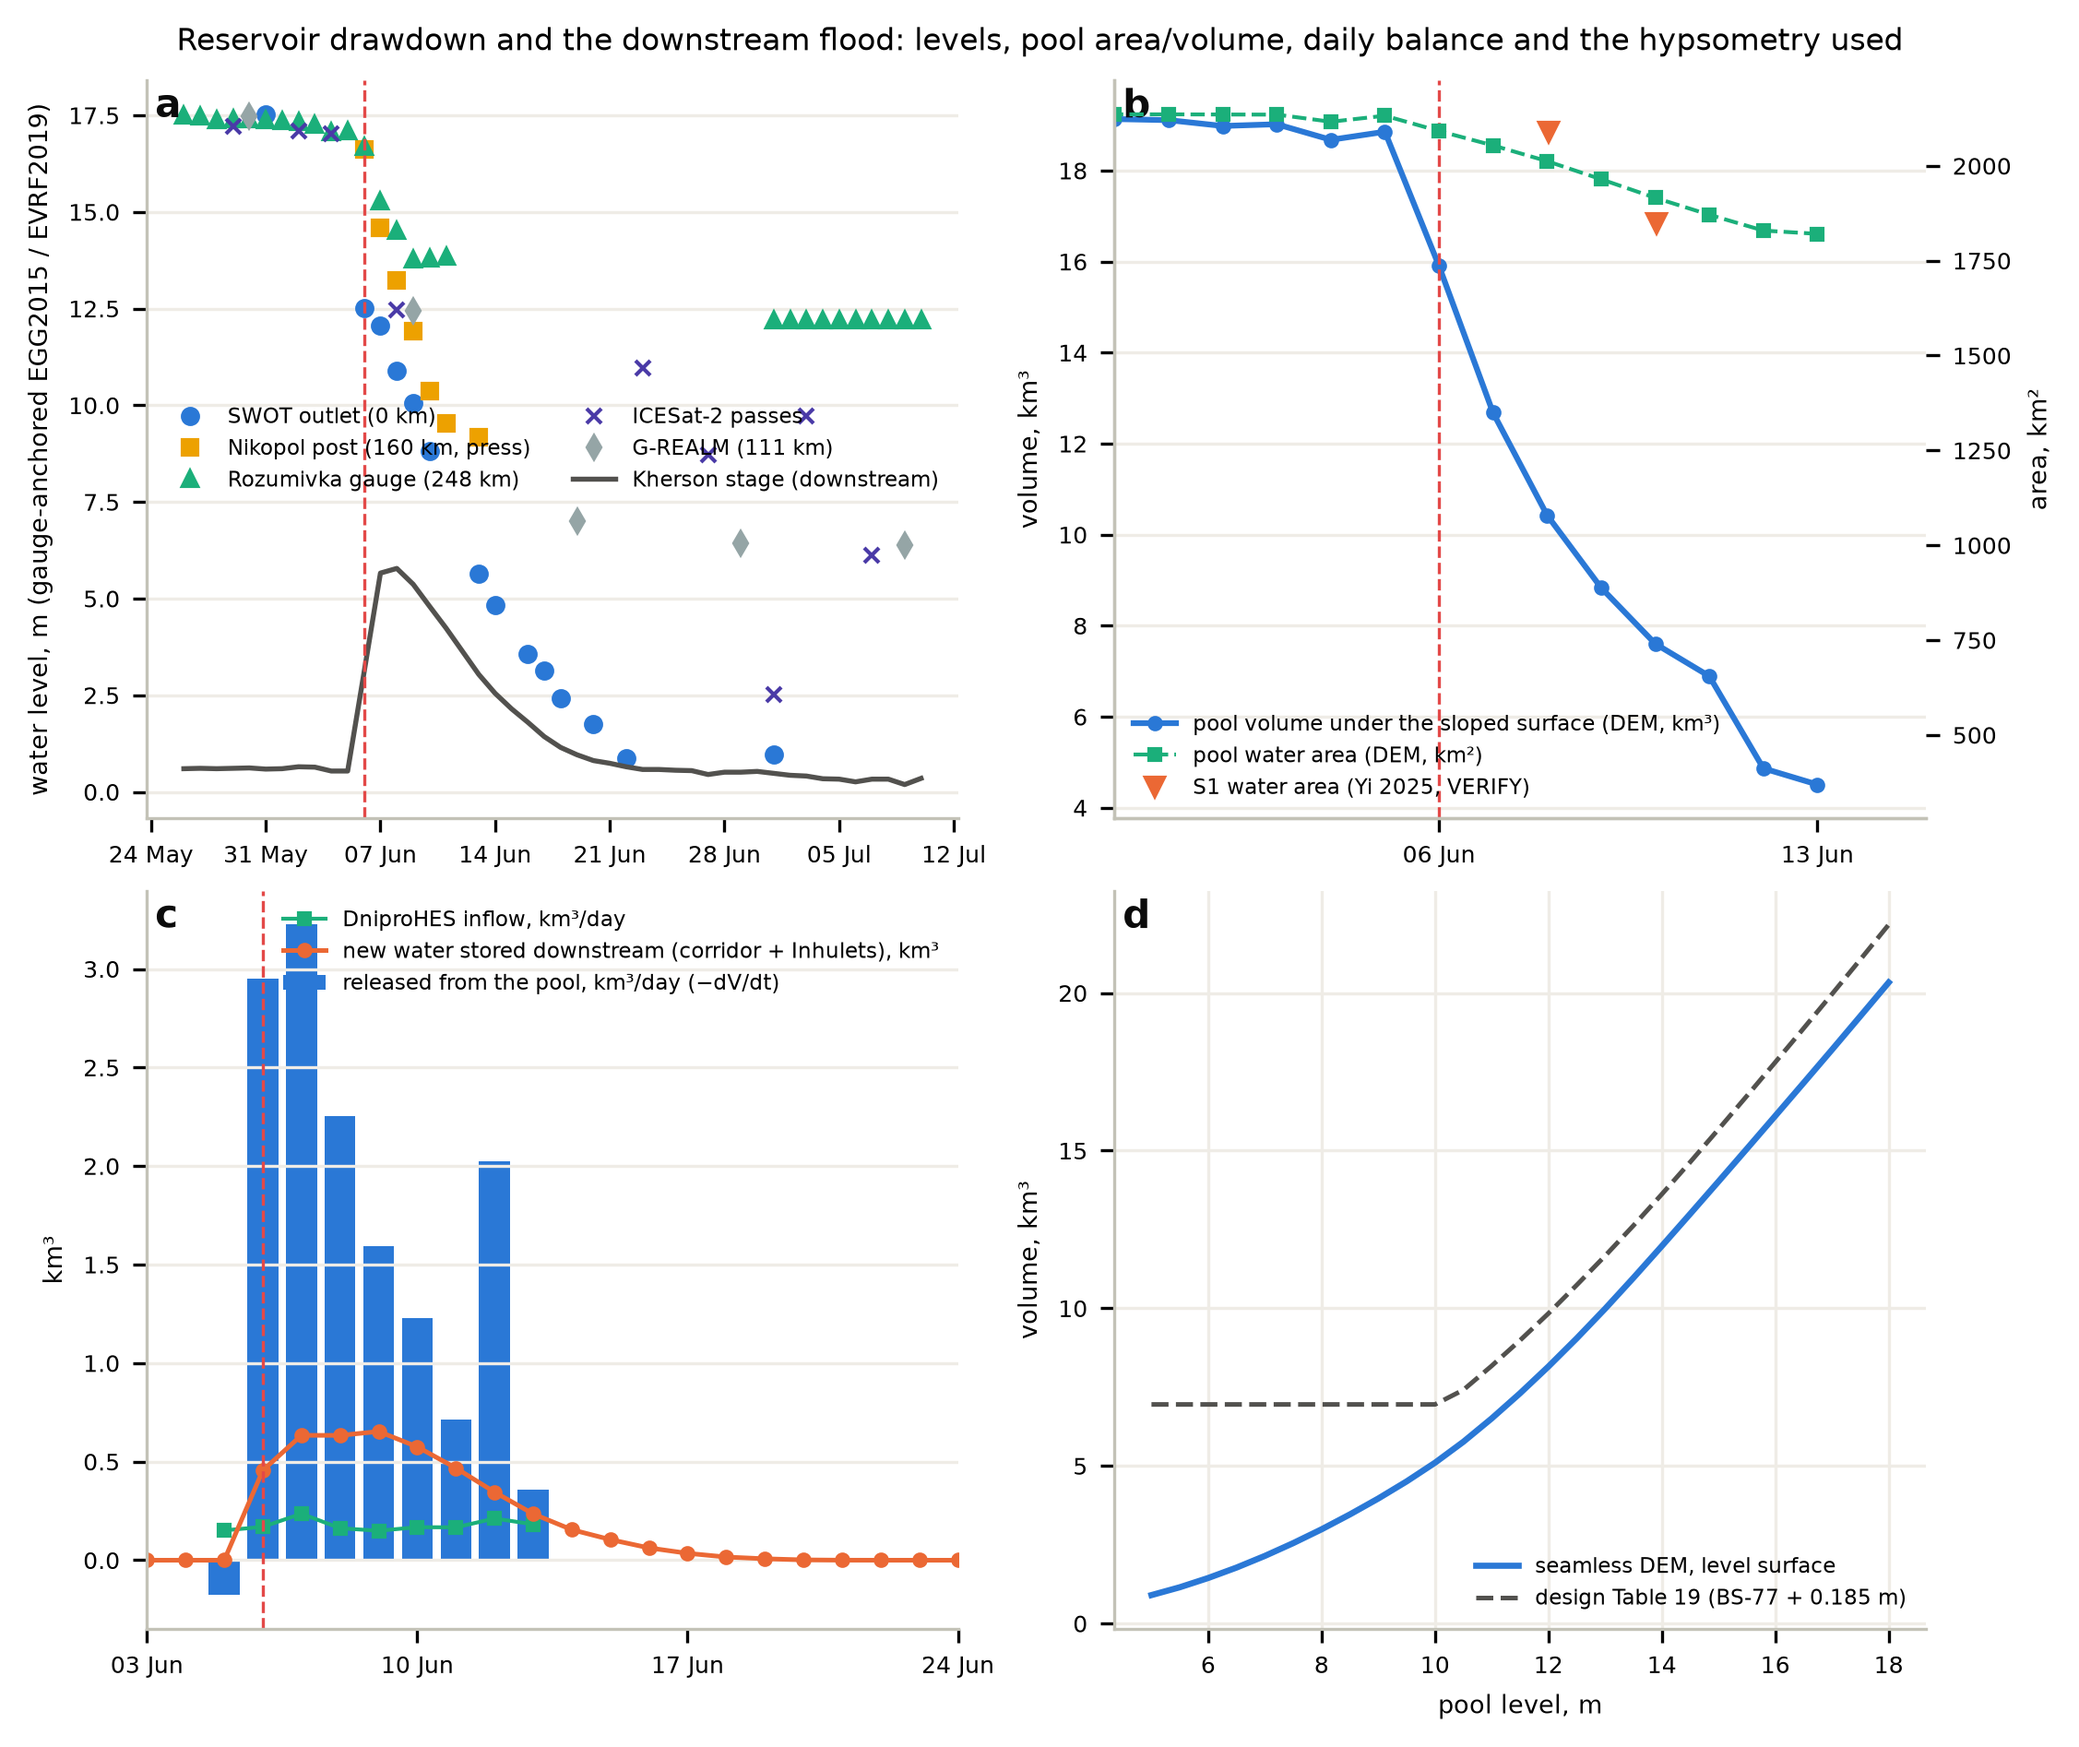
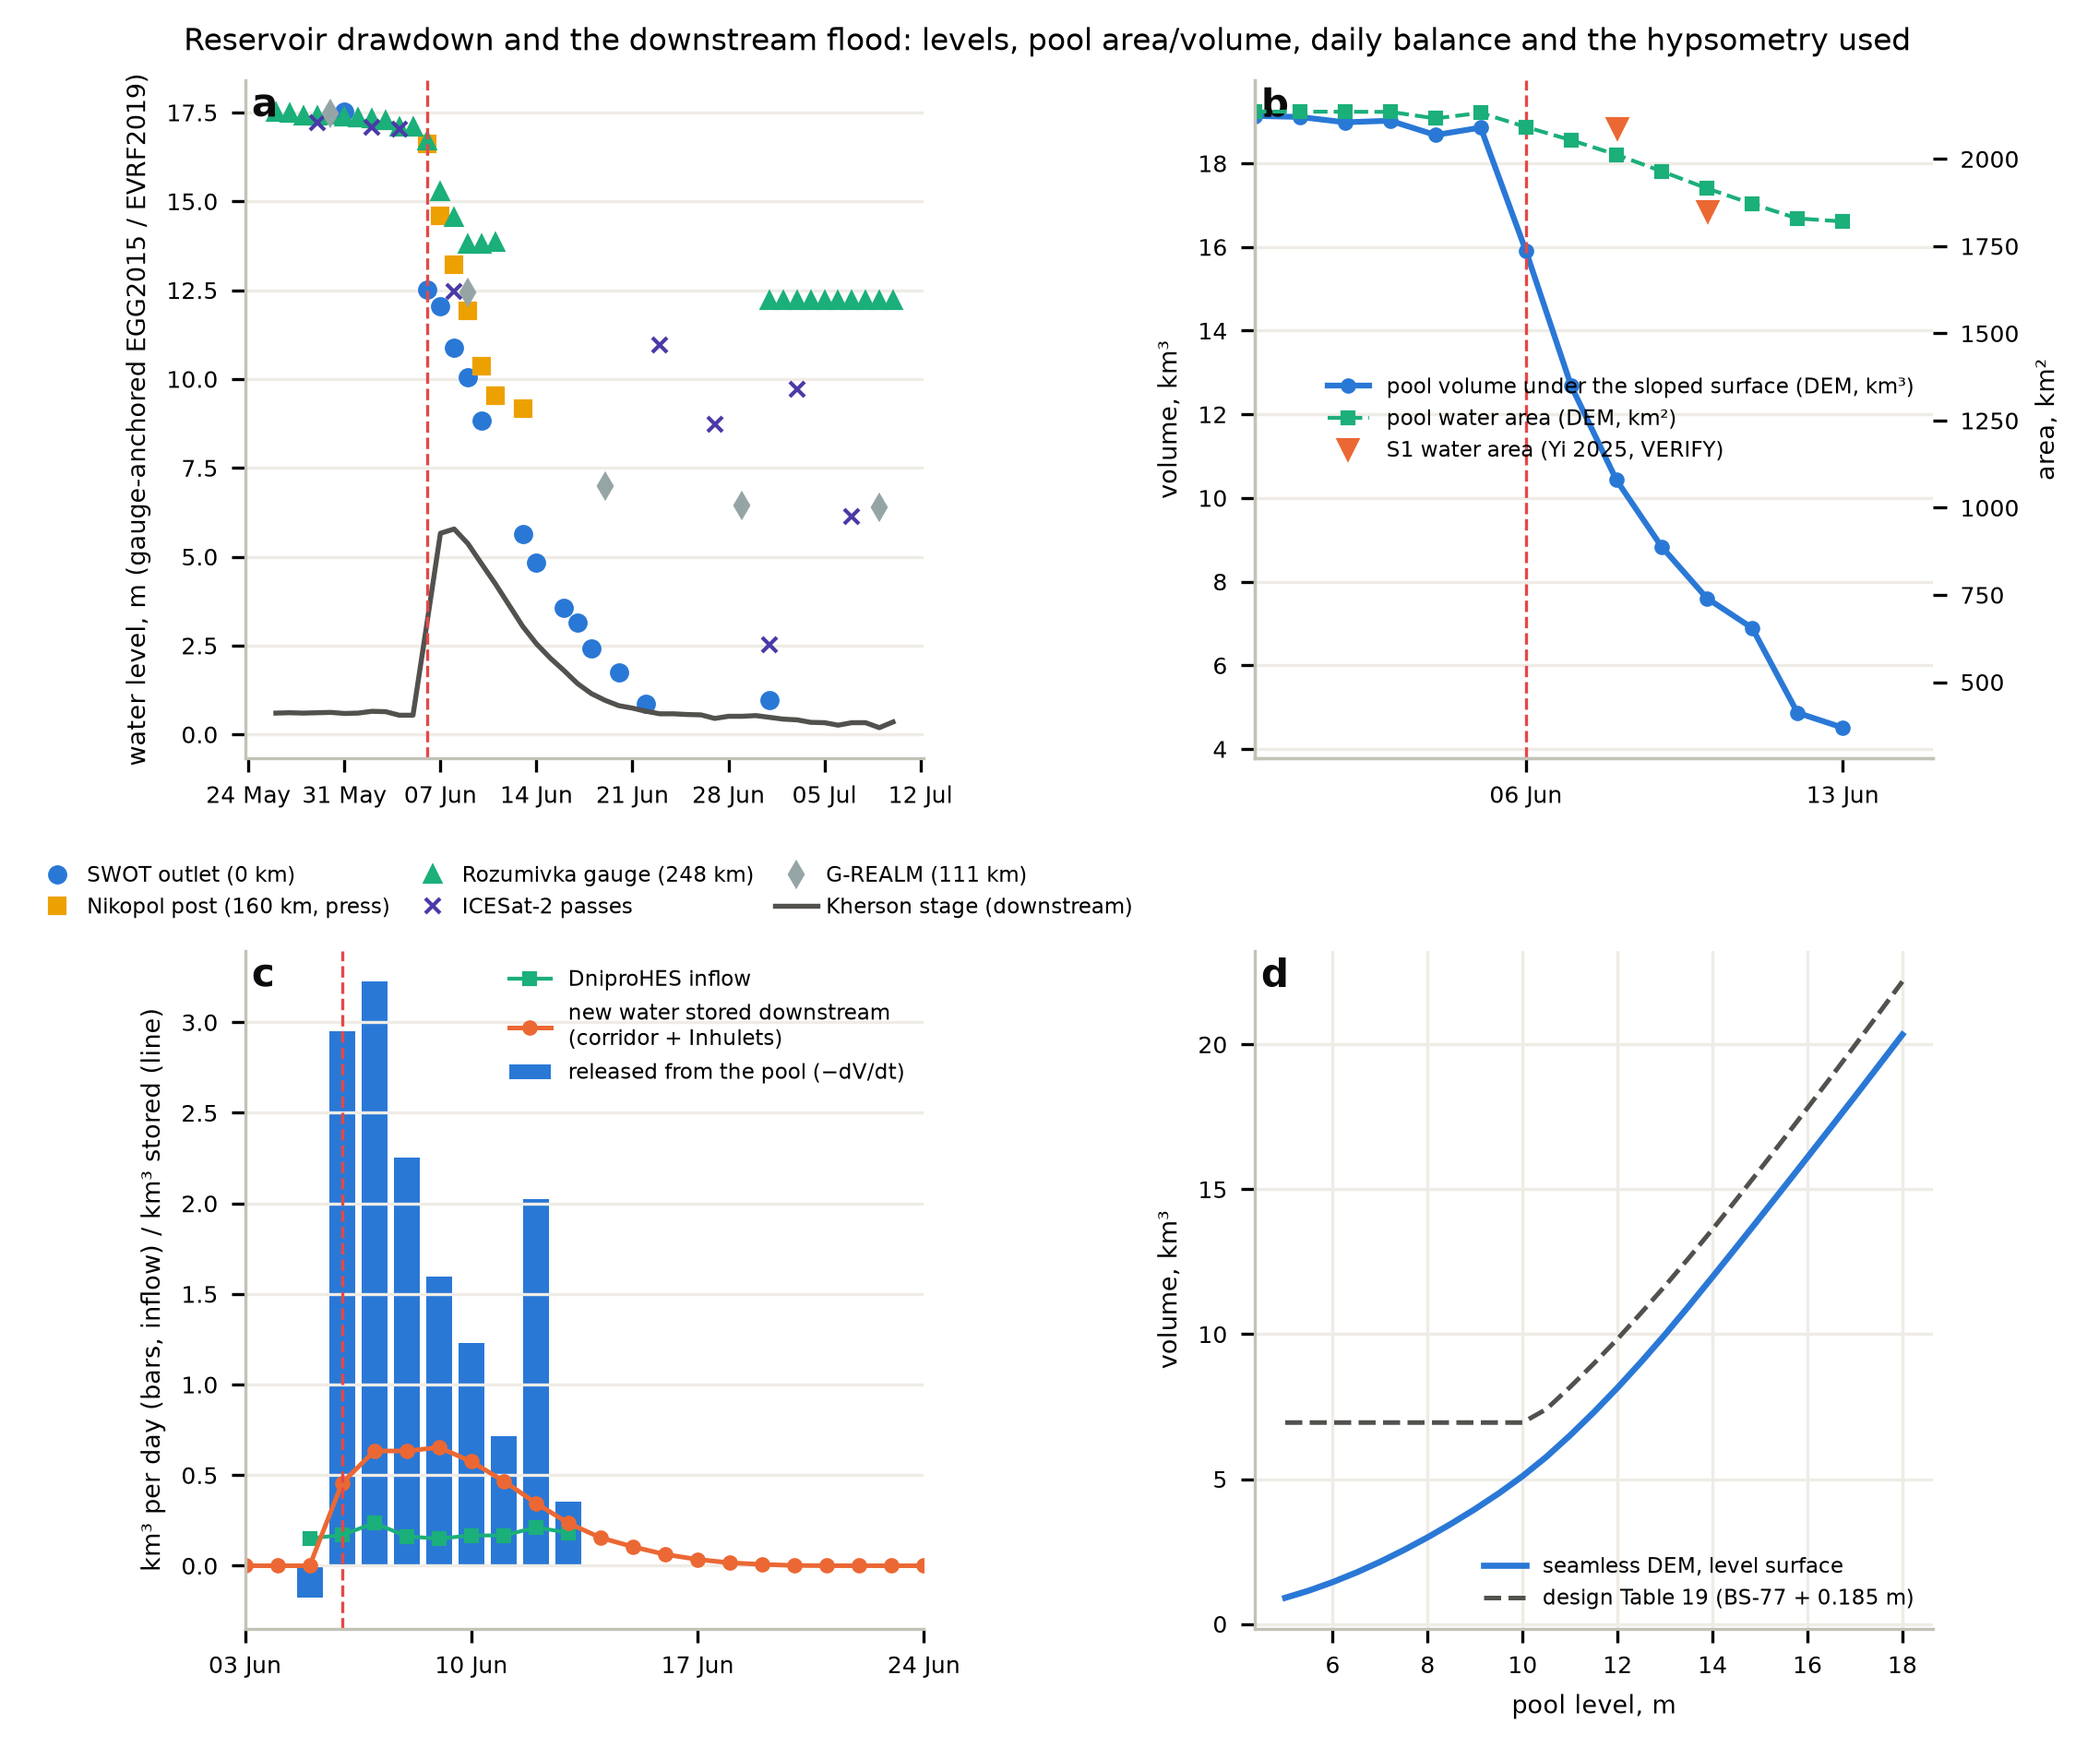
fig(paper): Fig09 legends -- panel (a) legend below the axes, panel (c) legend shortened into the empty upper right
Claude-Session: https://claude.ai/code/session_01D1Gposs5jpaBH3CvTmNca6

diff --git a/case_studies/kakhovka_2023/workflows/paper/p97_paper_figures.py b/case_studies/kakhovka_2023/workflows/paper/p97_paper_figures.py
@@ -307,7 +307,7 @@ def fig09():
                             ("ROZUMIVKA_GAUGE", FS.PALETTE["rf"], "^", "Rozumivka gauge (248 km)"), ("ICESAT2_ATL13", FS.PALETTE["unet"], "x", "ICESat-2 passes"), ("GREALM_S6A", FS.PALETTE["muted"], "d", "G-REALM (111 km)")]:
         q = lv[lv.source == src]; a.plot(q.date, q.H_evrf2019, mk, color=c, ms=4, label=lab, lw=0)
     a.plot(R.t, R.kherson_stage_m, color=FS.PALETTE["gauge"], lw=1.3, label="Kherson stage (downstream)"); FS.date_axis(a, BREACH, every_days=7)
-    a.set_ylabel("water level, m (gauge-anchored EGG2015 / EVRF2019)", fontsize=6.5); a.legend(fontsize=5.5, ncol=2); a.tick_params(labelsize=6); FS.panel_label(a, "a")
+    a.set_ylabel("water level, m (gauge-anchored EGG2015 / EVRF2019)", fontsize=6.5); a.legend(fontsize=5.5, ncol=3, loc="upper center", bbox_to_anchor=(0.5, -0.13), frameon=False, handletextpad=0.4, columnspacing=1.0); a.tick_params(labelsize=6); FS.panel_label(a, "a")
     b = axs[0, 1]; ok = R.V_pool_km3.notna()
     b.plot(R.t[ok], R.V_pool_km3[ok], "o-", color=FS.PALETTE["terrain"], ms=3, lw=1.5, label="pool volume under the sloped surface (DEM, km³)")
     b2 = b.twinx(); b2.plot(R.t[ok], R.A_pool_km2[ok], "s--", color=FS.PALETTE["rf"], ms=3, lw=1, label="pool water area (DEM, km²)"); b2.set_ylabel("area, km²", fontsize=6.5); b2.tick_params(labelsize=6)
@@ -316,10 +316,10 @@ def fig09():
     b.set_ylabel("volume, km³", fontsize=6.5); FS.date_axis(b, BREACH, every_days=7); b.tick_params(labelsize=6); h1, l1 = b.get_legend_handles_labels(); h2, l2 = b2.get_legend_handles_labels(); b.legend(h1 + h2, l1 + l2, fontsize=5.5); FS.panel_label(b, "b")
     b.set_xlim(pd.Timestamp("2023-05-31"), pd.Timestamp("2023-06-15"))
     c = axs[1, 0]; dd = R[ok & (R.t >= "2023-06-05")]
-    c.bar(dd.t, -dd.dV_pool_hm3 / 1000, width=0.8, color=FS.PALETTE["terrain"], label="released from the pool, km³/day (−dV/dt)")
-    c.plot(dd.t, dd.Q_in_hm3_day / 1000, "s-", color=FS.PALETTE["rf"], ms=3, lw=1, label="DniproHES inflow, km³/day")
-    c.plot(R.t, R.downstream_new_volume_hm3 / 1000, "o-", color=FS.PALETTE["s1"], ms=3, lw=1.2, label="new water stored downstream (corridor + Inhulets), km³")
-    c.set_ylabel("km³", fontsize=6.5); FS.date_axis(c, BREACH, every_days=7); c.legend(fontsize=5.5); c.tick_params(labelsize=6); FS.panel_label(c, "c"); c.set_xlim(pd.Timestamp("2023-06-03"), pd.Timestamp("2023-06-24"))
+    c.bar(dd.t, -dd.dV_pool_hm3 / 1000, width=0.8, color=FS.PALETTE["terrain"], label="released from the pool (−dV/dt)")
+    c.plot(dd.t, dd.Q_in_hm3_day / 1000, "s-", color=FS.PALETTE["rf"], ms=3, lw=1, label="DniproHES inflow")
+    c.plot(R.t, R.downstream_new_volume_hm3 / 1000, "o-", color=FS.PALETTE["s1"], ms=3, lw=1.2, label="new water stored downstream\n(corridor + Inhulets)")
+    c.set_ylabel("km³ per day (bars, inflow) / km³ stored (line)", fontsize=6.5); FS.date_axis(c, BREACH, every_days=7); c.legend(fontsize=5.5, loc="upper right"); c.tick_params(labelsize=6); FS.panel_label(c, "c"); c.set_xlim(pd.Timestamp("2023-06-03"), pd.Timestamp("2023-06-24"))
     dax = axs[1, 1]; dax.plot(H.level_evrf2019_m, H.V_dem_km3, color=FS.PALETTE["terrain"], lw=1.6, label="seamless DEM, level surface"); dax.plot(H.level_evrf2019_m, H.V_table19_km3, color=FS.PALETTE["gauge"], lw=1.2, ls="--", label="design Table 19 (BS-77 + 0.185 m)")
     dax.set_xlabel("pool level, m", fontsize=6.5); dax.set_ylabel("volume, km³", fontsize=6.5); dax.legend(fontsize=5.5); dax.tick_params(labelsize=6); dax.grid(color=FS.PALETTE["grid"]); FS.panel_label(dax, "d")
     fig.suptitle("Reservoir drawdown and the downstream flood: levels, pool area/volume, daily balance and the hypsometry used", fontsize=8)
